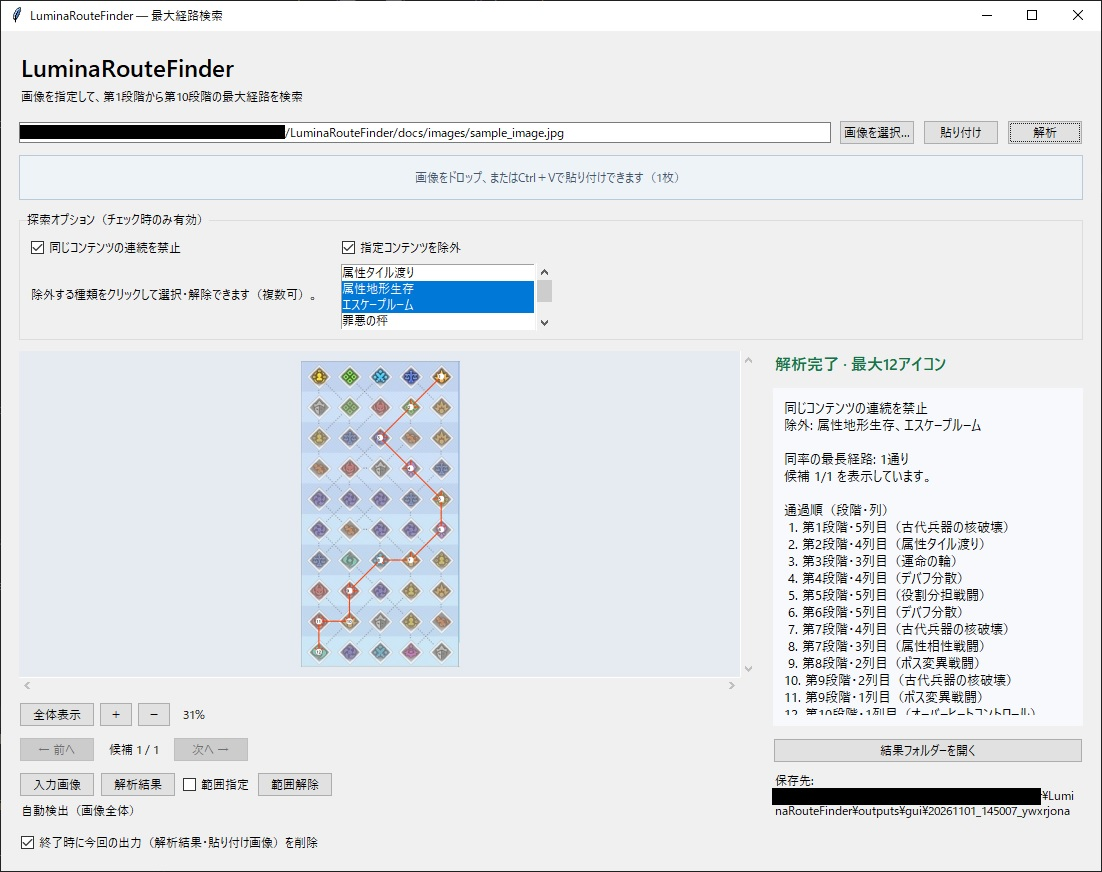
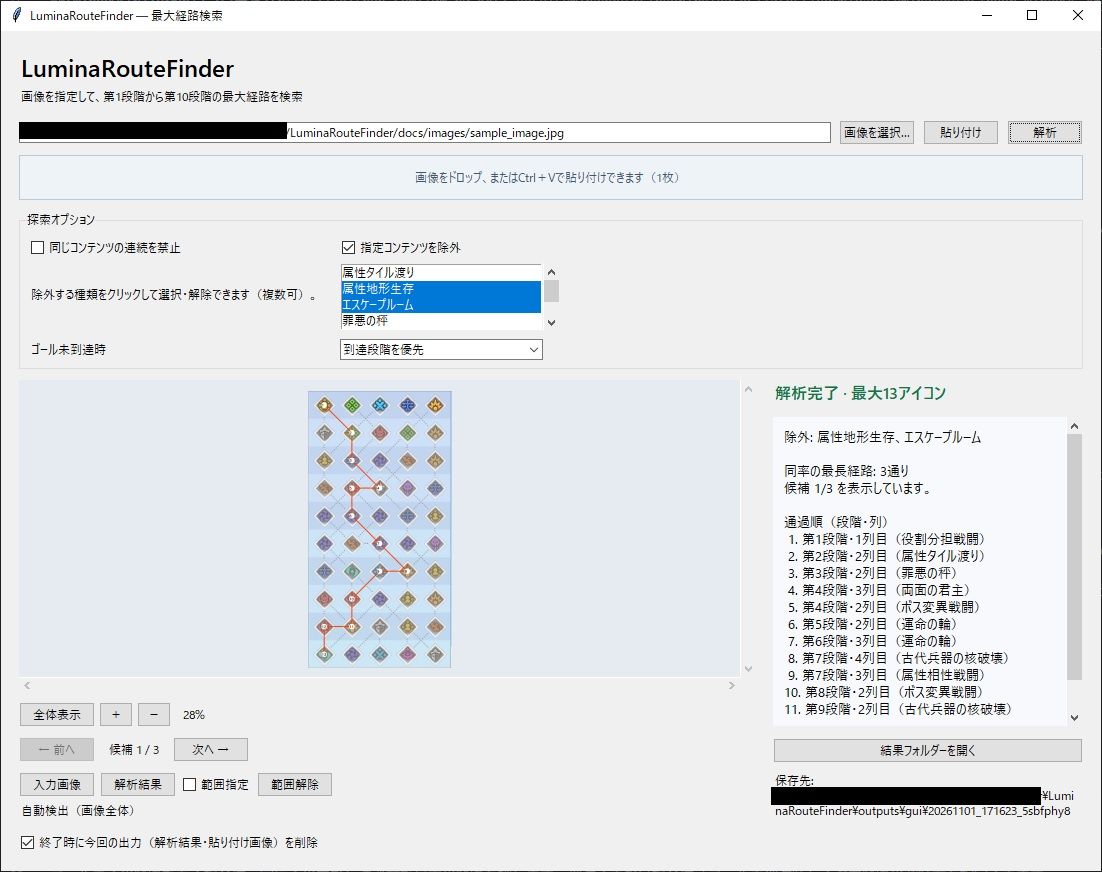
Update GUI screenshot and README for v1.1.0

diff --git a/lumina_route_finder/__init__.py b/lumina_route_finder/__init__.py
@@ -1,2 +1,2 @@
 """LuminaRouteFinder."""
-__version__ = '1.0.3'
+__version__ = '1.1.0'

diff --git a/README.md b/README.md
@@ -4,8 +4,9 @@ Lumina’s Corridorのスクリーンショットから、**第1段階から第1
 
 - 画像ファイルの選択・パス入力・ドラッグ＆ドロップ・クリップボード貼り付けに対応
 - 入力画像のプレビューと、ドラッグによる解析範囲の指定
-- 最大通過数・経路画像・通過順の表示と、同率候補のページ切り替え
-- コンテンツの除外・同じコンテンツの連続禁止を指定した探索
+- 最大通過数・経路画像・スクロールできる通過順の表示と、同率候補のページ切り替え
+- コンテンツの除外・同じコンテンツの連続禁止を指定した探索と、条件の保存・復元
+- ゴール未到達時の途中経路表示と、到達段階／通過アイコン数の優先順位切り替え
 - 読み取れない画像のエラー理由表示と、終了時の生成ファイル削除
 
 ## ダウンロード・起動
@@ -29,10 +30,12 @@ gui-settings.json
 
 1. 画像を選択・D&Dするか、画像のパスを入力します。Win＋Shift＋Sでコピーした画像は「貼り付け」またはCtrl＋Vで読み込めます。
 2. 表示された入力画像を確認します。必要に応じて「範囲指定」をオンにし、盤面全体をドラッグで囲みます。
-3. 探索条件を指定し、「解析」を押します。画像を読み込んだだけでは解析は始まりません。
+3. 必要なら除外するコンテンツや連続禁止を指定し、ゴール未到達時の優先順位を選びます。前回の設定が復元されるので、条件を確認して「解析」を押してください。画像を読み込んだだけでは解析は始まりません。
 4. 最大通過数・経路画像・通過順を確認します。同率の候補がある場合は「前へ／次へ」で切り替えられます。
 
-![解析画面：経路画像と通過順、候補の切り替え](docs/images/pyw_image.jpg)
+![解析画面：探索条件と未到達時の優先順位、経路画像、スクロールできる通過順](docs/images/pyw_image.jpg)
+
+画面例は「属性地形生存」と「エスケープルーム」を除外した結果です。最大13アイコン・同率3通りの候補があり、「前へ／次へ」で表示を切り替えられます。
 
 右側の通過順・説明欄はスクロールバーやマウスホイールで末尾まで確認できます。候補を切り替えると説明欄は先頭に戻ります。
 

diff --git a/CHANGELOG.md b/CHANGELOG.md
@@ -1,7 +1,10 @@
 # 変更履歴
 
-## 未リリース
+## v1.1.0 — 2026-11-01
 
+- 長い通過順・結果説明をスクロールできるようにし、候補変更時には先頭へ戻すようにしました。
+- README・ビルド・リリースの共有SKILLを追加しました。
+- GUI画像とREADMEを現在の操作に合わせて更新しました。
 - ゴール未到達時に途中経路を表示し、到達段階優先・通過数優先を選択できるようにしました。
 - 探索条件・除外種類・未到達時の優先順位を設定ファイルへ保存し、初回候補取得数も設定可能にしました。
 
